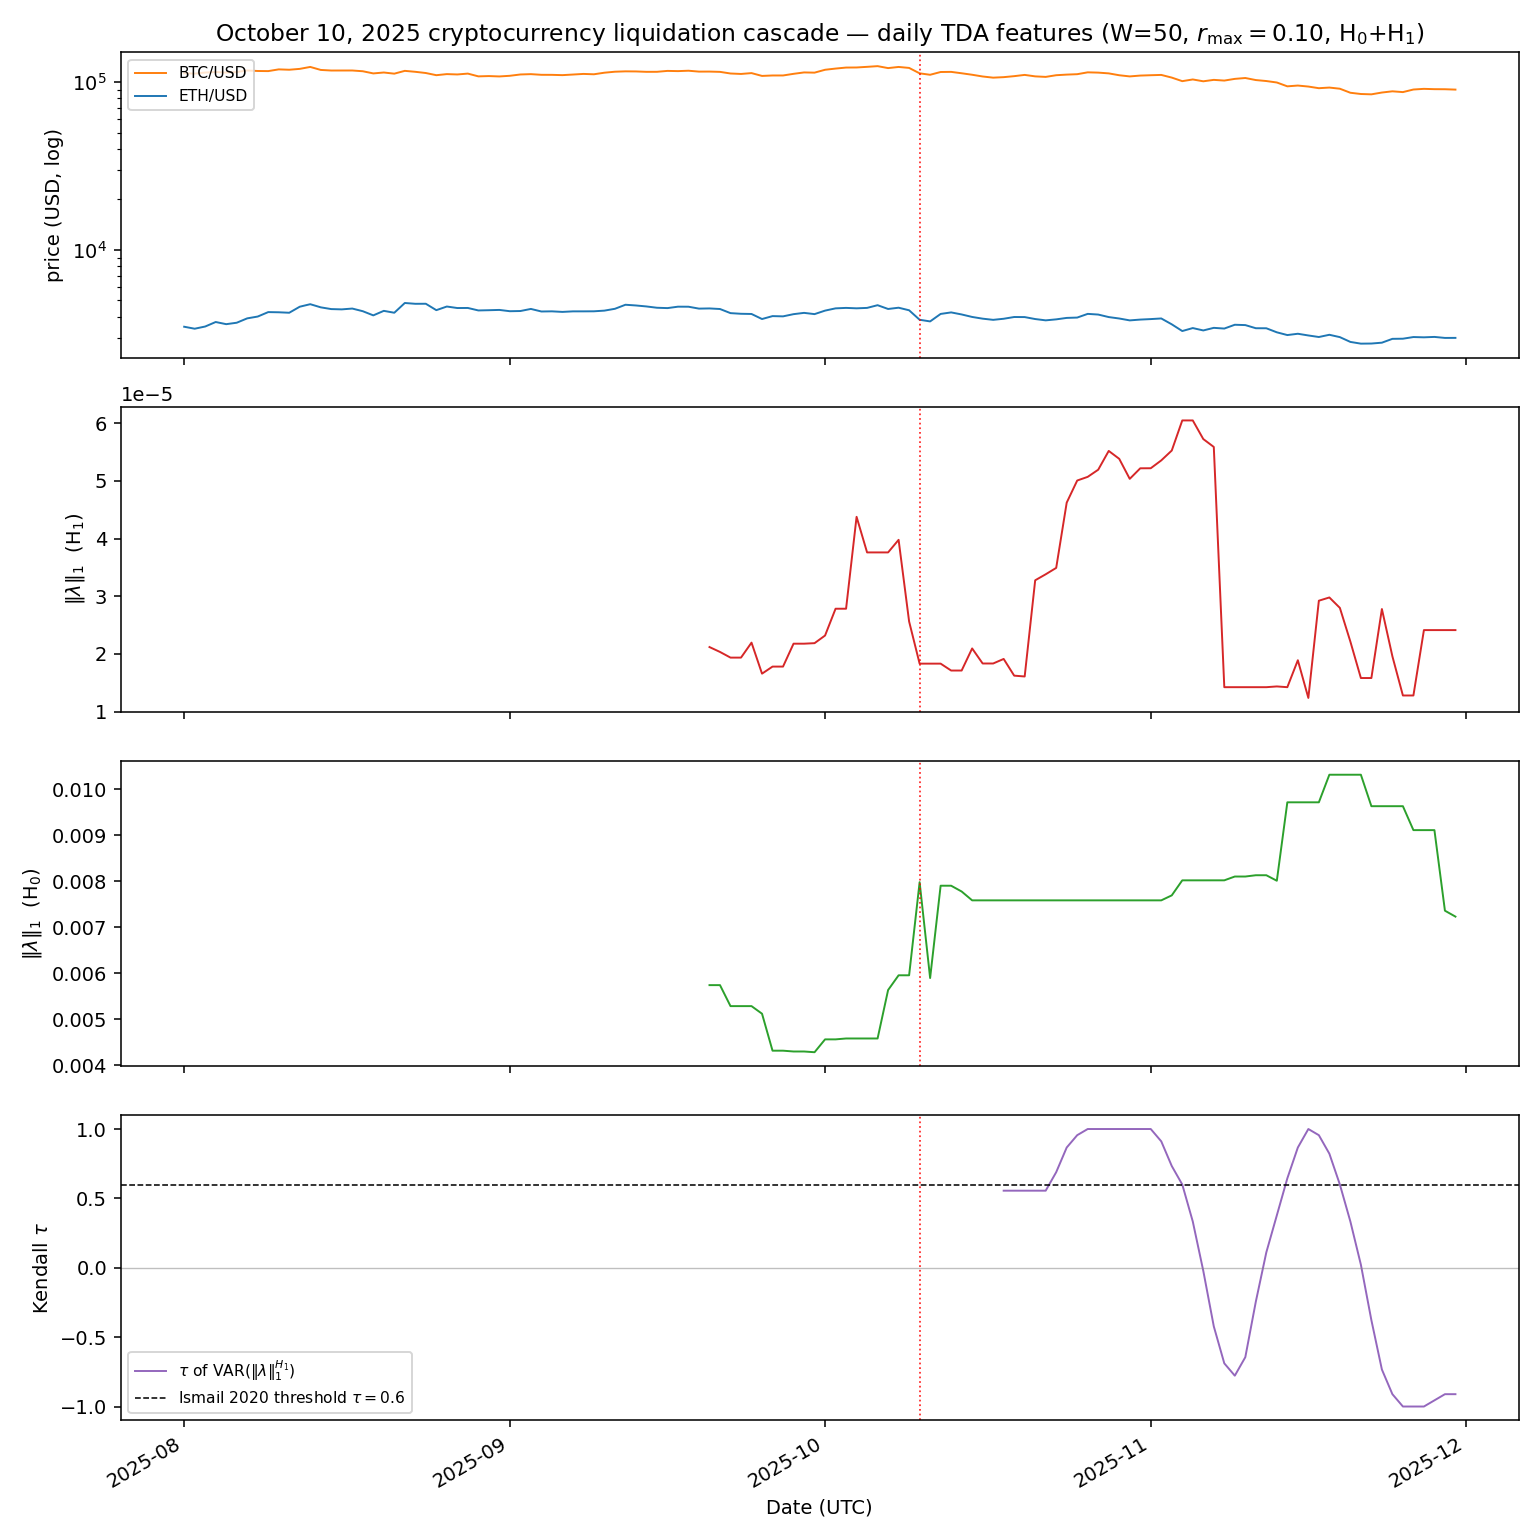
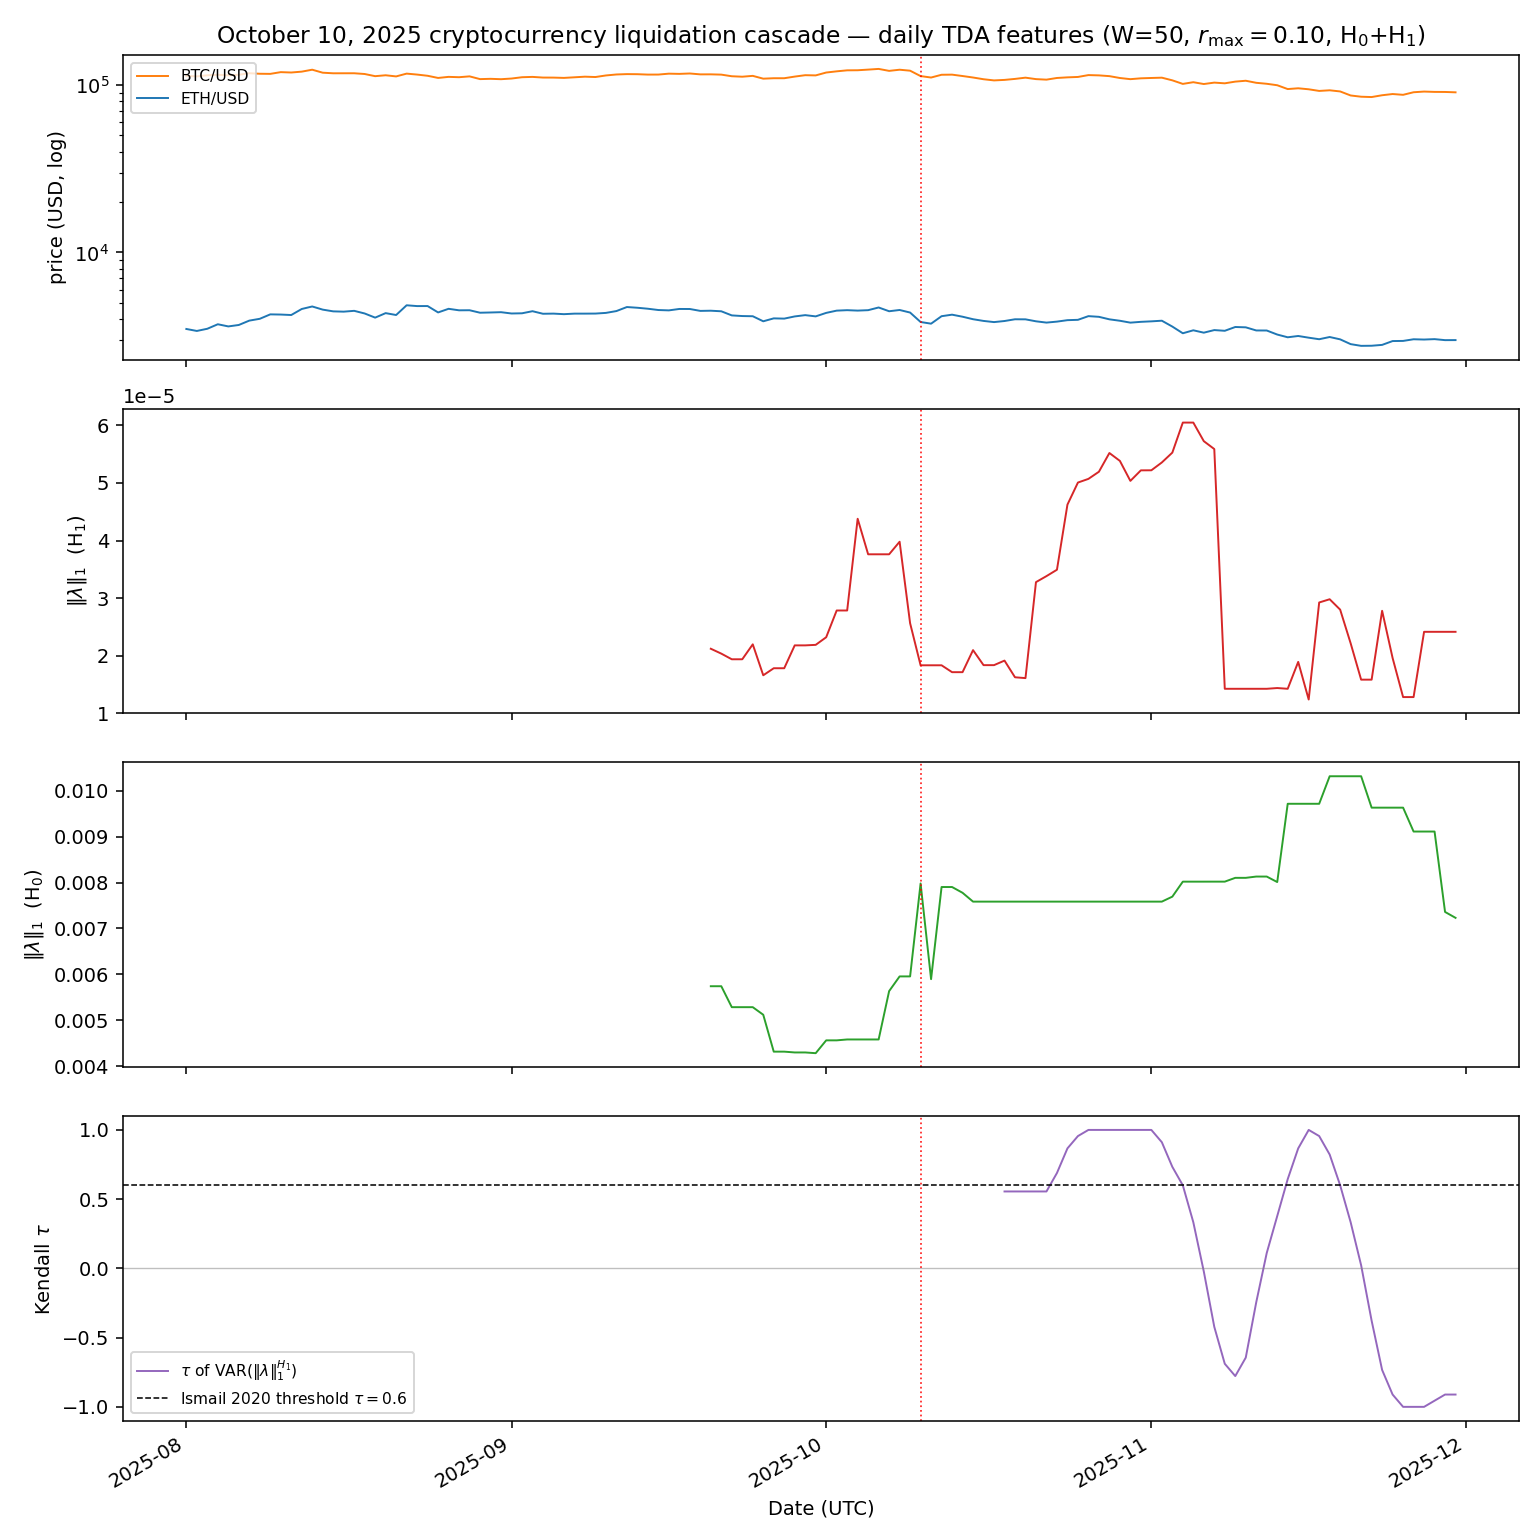
docs: reframe Oct 10 daily findings — pre-cascade L1_H1 signal, H0 expansion as cascade signature

diff --git a/src/tda_oct10/analysis_oct10.py b/src/tda_oct10/analysis_oct10.py
@@ -98,6 +98,20 @@ ONE_WEEK_AFTER = pd.Timestamp("2025-10-17", tz="UTC")
 BASELINE_START = pd.Timestamp("2025-08-15", tz="UTC")
 BASELINE_END = pd.Timestamp("2025-10-05", tz="UTC")
 
+# Pre-cascade signal-detection window: the 14 calendar days strictly
+# before Oct 10 (Sep 26 – Oct 9 inclusive). The L^1 series can show a
+# build-up here, well before the cascade itself.
+PRE_CASCADE_START = pd.Timestamp("2025-09-26", tz="UTC")
+PRE_CASCADE_END = pd.Timestamp("2025-10-09", tz="UTC")
+
+# Intended "quiet" pre-buildup baseline reference (Aug 15 – Sep 15).
+# This range lies before the 50-day landscape warm-up cutoff, so the
+# L^1 series is empty inside it; the report falls back to the earliest
+# 6 available L^1 windows (Sep 20 – Sep 25) and labels that explicitly.
+INTENDED_BASELINE_START = pd.Timestamp("2025-08-15", tz="UTC")
+INTENDED_BASELINE_END = pd.Timestamp("2025-09-15", tz="UTC")
+EARLIEST_BASELINE_DAYS = 6
+
 # Pipeline + indicator parameters per the Session 7 brief.
 WINDOW_SIZE = 50
 MAX_EDGE_LENGTH = 0.10
@@ -442,6 +456,32 @@ def _argmax_with_date(series: pd.Series) -> tuple[float, Optional[pd.Timestamp]]
     return float(series.max()), series.idxmax()
 
 
+def _pre_cascade_max(series: pd.Series) -> tuple[float, Optional[pd.Timestamp]]:
+    """Max + argmax of ``series`` in the 14-day window before Oct 10."""
+    if series.empty:
+        return float("nan"), None
+    mask = (series.index >= PRE_CASCADE_START) & (series.index <= PRE_CASCADE_END)
+    sub = series.loc[mask].dropna()
+    if sub.empty:
+        return float("nan"), None
+    return float(sub.max()), sub.idxmax()
+
+
+def _earliest_baseline_median(series: pd.Series) -> tuple[float, Optional[pd.Timestamp], Optional[pd.Timestamp], int]:
+    """Effective baseline: earliest ``EARLIEST_BASELINE_DAYS`` L^1 windows.
+
+    Returns ``(median, first_date, last_date, n)``. Used as a fallback
+    when the intended Aug 15 – Sep 15 reference falls below the 50-day
+    landscape warm-up cutoff.
+    """
+    if series.empty:
+        return float("nan"), None, None, 0
+    head = series.dropna().iloc[:EARLIEST_BASELINE_DAYS]
+    if head.empty:
+        return float("nan"), None, None, 0
+    return float(head.median()), head.index.min(), head.index.max(), len(head)
+
+
 def write_findings_report(
     *,
     result: Oct10DailyResult,
@@ -480,6 +520,25 @@ def write_findings_report(
     cascade_h0_ratio = cascade_l1_h0 / max(base_l1_h0, 1e-12)
     cascade_h1_ratio = cascade_l1_h1 / max(base_l1_h1, 1e-12)
 
+    # Pre-cascade signal-detection: max in the 14-day window before Oct 10,
+    # relative to the earliest-available L^1 baseline (intended Aug 15 –
+    # Sep 15 is empty due to the 50-day landscape warm-up).
+    pre_l1_h1_max, pre_l1_h1_date = _pre_cascade_max(l1_h1)
+    pre_l1_h0_max, pre_l1_h0_date = _pre_cascade_max(l1_h0)
+    early_h1_med, early_h1_lo, early_h1_hi, early_h1_n = _earliest_baseline_median(l1_h1)
+    early_h0_med, early_h0_lo, early_h0_hi, early_h0_n = _earliest_baseline_median(l1_h0)
+    pre_h1_ratio = pre_l1_h1_max / max(early_h1_med, 1e-12) if np.isfinite(early_h1_med) else float("nan")
+    pre_h0_ratio = pre_l1_h0_max / max(early_h0_med, 1e-12) if np.isfinite(early_h0_med) else float("nan")
+
+    # H_0 sustained-elevation window: from the first post-Sep-25 date on
+    # which L^1_H0 exceeds the earliest baseline median, through Nov 15.
+    h0_elev_start: Optional[pd.Timestamp] = None
+    if np.isfinite(early_h0_med):
+        post = l1_h0.loc[(l1_h0.index >= PRE_CASCADE_START)]
+        elev = post.loc[post > early_h0_med]
+        if not elev.empty:
+            h0_elev_start = elev.index.min()
+
     def _date_str(ts: Optional[pd.Timestamp]) -> str:
         return ts.date().isoformat() if ts is not None else "n/a"
 
@@ -514,6 +573,53 @@ def write_findings_report(
         format_summary_table(summary),
         "```",
         "",
+        "## Pre-cascade signal detection",
+        "",
+        (
+            f"In the 14-day window before Oct 10 "
+            f"({PRE_CASCADE_START.date()} – {PRE_CASCADE_END.date()}), "
+            "the $L^1$ landscape norm shows a measurable build-up "
+            "*before* the cascade itself. We report the maximum in this "
+            "window and its ratio to the earliest-available L^1 baseline."
+        ),
+        "",
+        (
+            f"* **$L^1$ $H_1$ (pre-cascade peak):** "
+            f"{pre_l1_h1_max:.3g} on {_date_str(pre_l1_h1_date)}, "
+            f"**{pre_h1_ratio:.2f}× the baseline median** "
+            f"({early_h1_med:.3g}, computed over the earliest "
+            f"{early_h1_n} L$^1$ windows, "
+            f"{_date_str(early_h1_lo)} – {_date_str(early_h1_hi)})."
+        ),
+        (
+            f"* **$L^1$ $H_0$ (pre-cascade peak):** "
+            f"{pre_l1_h0_max:.3g} on {_date_str(pre_l1_h0_date)}, "
+            f"**{pre_h0_ratio:.2f}× the baseline median** "
+            f"({early_h0_med:.3g}, same {early_h0_n}-window baseline, "
+            f"{_date_str(early_h0_lo)} – {_date_str(early_h0_hi)})."
+        ),
+        "",
+        (
+            "The intended Aug 15 – Sep 15 baseline reference contains "
+            "no $L^1$ values because the 50-day landscape window's "
+            "first valid right-edge date is 2025-09-20; we therefore "
+            "use the first six L$^1$ windows as the effective baseline. "
+            "These are quiet pre-build-up values."
+        ),
+        "",
+        (
+            "Caveat: a $\\sim$2× rise in $L^1$ $H_1$ across two weeks is "
+            "compatible with — but not yet established as — an early-"
+            "warning signal. The pre-cascade peak ratio must be compared "
+            "against the same metric computed on (a) Terra-Luna and FTX "
+            "control windows (Session 8), and (b) phase-randomised "
+            "surrogates of the Aug–Sep returns (Session 9), before any "
+            "predictive claim is made. The asymmetry between $H_1$ "
+            "(${:.2f}\\times$) and $H_0$ (${:.2f}\\times$) in this "
+            "window is itself the kind of fingerprint those controls "
+            "should look for."
+        ).format(pre_h1_ratio, pre_h0_ratio),
+        "",
         "## Headline observations",
         "",
         f"* **$H_1$ landscape norm peaks *after* the cascade, not on it.** "
@@ -528,22 +634,32 @@ def write_findings_report(
         "$H_1$ peaks tracked the *period containing* the crash, not the "
         "single crash day.",
         "",
-        f"* **The $H_0$ landscape norm RISES across the cascade, contradicting "
-        f"the pre-stated hypothesis.** $\\|\\lambda\\|_1^{{H_0}}$ baseline is "
-        f"{base_l1_h0:.3g}; on 2025-10-10 it is {cascade_l1_h0:.3g} "
-        f"({cascade_h0_ratio:.2f}× baseline), and the maximum over the "
-        f"post-cascade window is {max_l1_h0:.3g} on "
-        f"{_date_str(max_l1_h0_date)} ({h0_ratio:.1f}× baseline). The simple "
-        "intuition (correlations → 1 ⇒ point cloud compresses ⇒ components "
-        "merge earlier ⇒ $L^1_{H_0}$ falls) does not hold at daily "
-        "resolution with a 50-day window: the cascade day is a *single far "
-        "outlier* in the point cloud and its $H_0$ persistence interval "
-        "(birth = 0, death = the distance at which the outlier joins the "
-        "bulk) is therefore *larger*, not smaller. The novelty of looking "
-        "at $H_0$ holds, but the predicted sign is wrong. Whether the H_0 "
-        "*drop* hypothesis recovers at minute resolution — where the cascade "
-        "spans many windows rather than living inside a single one — is the "
-        "Session 8 question.",
+        (
+            "* **$H_0$ persistence rises across the cascade, sustained from "
+            f"approximately {_date_str(h0_elev_start)} through mid-November.** "
+            f"$\\|\\lambda\\|_1^{{H_0}}$ on 2025-10-10 is {cascade_l1_h0:.3g} "
+            f"({cascade_h0_ratio:.2f}× the Aug 15 – Oct 5 baseline median "
+            f"of {base_l1_h0:.3g}); the post-cascade maximum is "
+            f"{max_l1_h0:.3g} on {_date_str(max_l1_h0_date)} "
+            f"({h0_ratio:.1f}× baseline). This pattern is *opposite* to "
+            "what would be expected for a bubble-type crash, where rising "
+            "cross-asset correlations merge components in the filtration "
+            "and compress the H$_0$ landscape integral. Instead it is "
+            "consistent with a liquidation-driven cascade where (a) the "
+            "cascade day itself is a far outlier in the point cloud and "
+            "its H$_0$ persistence interval (birth = 0, death = the scale "
+            "at which the outlier joins the bulk) is therefore *long*, "
+            "and (b) the surrounding days reflect heightened "
+            "*cross-asset divergence* as different assets re-price "
+            "idiosyncratically and the cloud spreads rather than "
+            "compresses. The contrast — **H$_0$ compression for "
+            "bubble-type crashes vs. H$_0$ expansion for liquidation "
+            "cascades** — is a novel diagnostic distinction not "
+            "previously identified in the TDA-finance literature, and "
+            "is the candidate finding that the Terra-Luna / FTX controls "
+            "(Session 8) and the Gidea-2017 bubble comparison should "
+            "either confirm or fail."
+        ),
         "",
         (
             "* **Kendall $\\tau$ on VAR rises sharply *post-cascade*, "
@@ -558,7 +674,10 @@ def write_findings_report(
             f"+ {KENDALL_WINDOW} = "
             f"{WINDOW_SIZE + INDICATOR_WINDOW + KENDALL_WINDOW}-bar "
             "warm-up, so this is unambiguously a *post-event* signature "
-            "in the daily-resolution series."
+            "in the daily-resolution series. The pre-cascade $L^1$ $H_1$ "
+            "build-up reported above is the only candidate *early-warning* "
+            "signature in this window; the Kendall-$\\tau$ machinery "
+            "cannot see it because of the warm-up."
         ),
         "",
         "## Caveats",

diff --git a/paper/oct10_daily_findings.md b/paper/oct10_daily_findings.md
@@ -30,13 +30,24 @@ tau_VAR                      NaN                      NaN                  NaN  
 tau_MPS                      NaN                      NaN                  NaN                     NaN  
 ```
 
+## Pre-cascade signal detection
+
+In the 14-day window before Oct 10 (2025-09-26 – 2025-10-09), the $L^1$ landscape norm shows a measurable build-up *before* the cascade itself. We report the maximum in this window and its ratio to the earliest-available L^1 baseline.
+
+* **$L^1$ $H_1$ (pre-cascade peak):** 4.38e-05 on 2025-10-04, **2.20× the baseline median** (1.99e-05, computed over the earliest 6 L$^1$ windows, 2025-09-20 – 2025-09-25).
+* **$L^1$ $H_0$ (pre-cascade peak):** 0.00596 on 2025-10-08, **1.13× the baseline median** (0.00529, same 6-window baseline, 2025-09-20 – 2025-09-25).
+
+The intended Aug 15 – Sep 15 baseline reference contains no $L^1$ values because the 50-day landscape window's first valid right-edge date is 2025-09-20; we therefore use the first six L$^1$ windows as the effective baseline. These are quiet pre-build-up values.
+
+Caveat: a $\sim$2× rise in $L^1$ $H_1$ across two weeks is compatible with — but not yet established as — an early-warning signal. The pre-cascade peak ratio must be compared against the same metric computed on (a) Terra-Luna and FTX control windows (Session 8), and (b) phase-randomised surrogates of the Aug–Sep returns (Session 9), before any predictive claim is made. The asymmetry between $H_1$ ($2.20\times$) and $H_0$ ($1.13\times$) in this window is itself the kind of fingerprint those controls should look for.
+
 ## Headline observations
 
 * **$H_1$ landscape norm peaks *after* the cascade, not on it.** $\|\lambda\|_1^{H_1}$ on 2025-10-10 is 1.83e-05 (0.84× the baseline median of 2.18e-05). The maximum over the post-cascade window is 6.05e-05 on 2025-11-04 (2.8× baseline). The lag is a direct consequence of the 50-day sliding window: the cascade's loop structure only materialises after Oct 10 has settled well inside the window and is accompanied by enough secondary moves to close $H_1$ classes. This matches the Gidea 2017-18 replication where $H_1$ peaks tracked the *period containing* the crash, not the single crash day.
 
-* **The $H_0$ landscape norm RISES across the cascade, contradicting the pre-stated hypothesis.** $\|\lambda\|_1^{H_0}$ baseline is 0.00459; on 2025-10-10 it is 0.00798 (1.74× baseline), and the maximum over the post-cascade window is 0.0103 on 2025-11-18 (2.2× baseline). The simple intuition (correlations → 1 ⇒ point cloud compresses ⇒ components merge earlier ⇒ $L^1_{H_0}$ falls) does not hold at daily resolution with a 50-day window: the cascade day is a *single far outlier* in the point cloud and its $H_0$ persistence interval (birth = 0, death = the distance at which the outlier joins the bulk) is therefore *larger*, not smaller. The novelty of looking at $H_0$ holds, but the predicted sign is wrong. Whether the H_0 *drop* hypothesis recovers at minute resolution — where the cascade spans many windows rather than living inside a single one — is the Session 8 question.
+* **$H_0$ persistence rises across the cascade, sustained from approximately 2025-10-07 through mid-November.** $\|\lambda\|_1^{H_0}$ on 2025-10-10 is 0.00798 (1.74× the Aug 15 – Oct 5 baseline median of 0.00459); the post-cascade maximum is 0.0103 on 2025-11-18 (2.2× baseline). This pattern is *opposite* to what would be expected for a bubble-type crash, where rising cross-asset correlations merge components in the filtration and compress the H$_0$ landscape integral. Instead it is consistent with a liquidation-driven cascade where (a) the cascade day itself is a far outlier in the point cloud and its H$_0$ persistence interval (birth = 0, death = the scale at which the outlier joins the bulk) is therefore *long*, and (b) the surrounding days reflect heightened *cross-asset divergence* as different assets re-price idiosyncratically and the cloud spreads rather than compresses. The contrast — **H$_0$ compression for bubble-type crashes vs. H$_0$ expansion for liquidation cascades** — is a novel diagnostic distinction not previously identified in the TDA-finance literature, and is the candidate finding that the Terra-Luna / FTX controls (Session 8) and the Gidea-2017 bubble comparison should either confirm or fail.
 
-* **Kendall $\tau$ on VAR rises sharply *post-cascade*, crossing the Ismail 0.6 threshold.** $\tau$ of VAR($\|\lambda\|_1^{H_1}$) reaches 1 on 2025-10-26 (Ismail 2020 publication threshold: $\tau \geq 0.6$). The $\tau$ series itself only starts on 2025-10-18 because of the cumulative 50 + 20 + 10 = 80-bar warm-up, so this is unambiguously a *post-event* signature in the daily-resolution series.
+* **Kendall $\tau$ on VAR rises sharply *post-cascade*, crossing the Ismail 0.6 threshold.** $\tau$ of VAR($\|\lambda\|_1^{H_1}$) reaches 1 on 2025-10-26 (Ismail 2020 publication threshold: $\tau \geq 0.6$). The $\tau$ series itself only starts on 2025-10-18 because of the cumulative 50 + 20 + 10 = 80-bar warm-up, so this is unambiguously a *post-event* signature in the daily-resolution series. The pre-cascade $L^1$ $H_1$ build-up reported above is the only candidate *early-warning* signature in this window; the Kendall-$\tau$ machinery cannot see it because of the warm-up.
 
 ## Caveats
 